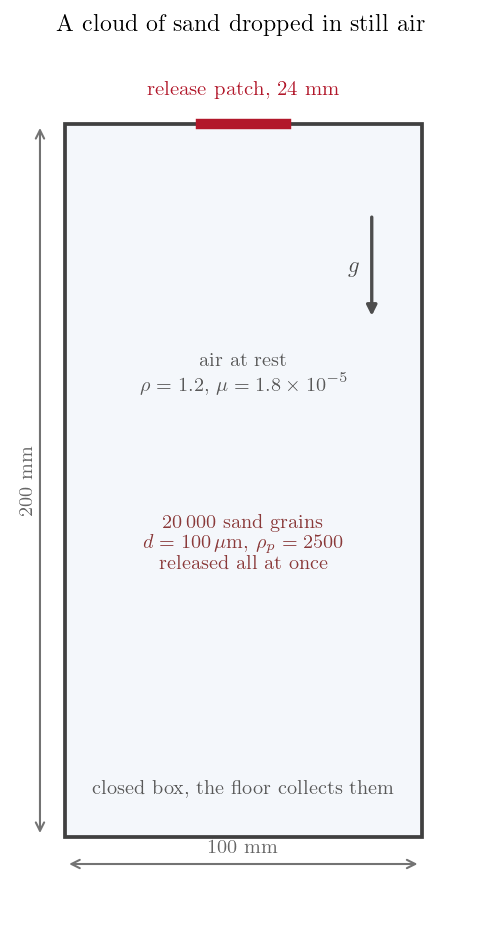
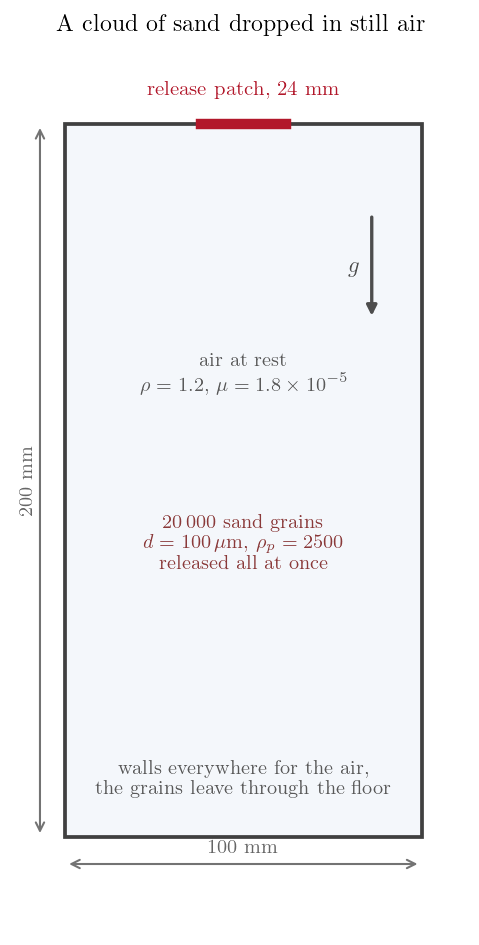
fix: describe the actual particle boundary at the floor in Lag_Twoway_Sand
Both cases give the floor the particle condition `outlet`, so the grains cross
the box and leave the computation. The README said the opposite in three
places: the boundary table announced a deposit with the grains staying where
they land, the figure and its caption had the floor collecting them, and the
text claimed no boundary lets a grain through.

The argument the tutorial rests on is unaffected, since it concerns the air:
every boundary is a wall for the fluid, so nothing but the grains can set it
in motion. Only the particle side of the description was wrong, and the
setup figure is regenerated with the corrected annotation.

Changed region(s): [[0.2046, 0.7979, 0.8184, 0.8593]]

diff --git a/70_lagrangian/Lag_Twoway_Sand/README.md b/70_lagrangian/Lag_Twoway_Sand/README.md
@@ -10,12 +10,13 @@ mass approaches the mass of fluid around them, because it then changes the very
 flow that carries them.
 
 This case is built to make the difference plain. Sand grains are released from a
-patch at the top of a closed box of still air, and the case is run twice, changing
-only the coupling. Nothing else could set the air in motion: no inlet, no outlet,
-no moving wall. So in one-way coupling the air stays exactly at rest, whatever the
-sand does above it. In two-way coupling the drag reaction drives a downward plume,
-and the grains, now falling through descending air, reach the floor faster than
-they would in still air.
+patch at the top of a box of still air, and the case is run twice, changing only
+the coupling. Nothing else could set the air in motion: the box is walled on every
+side, with no inlet, no outlet and no moving wall for the fluid. So in one-way
+coupling the air stays exactly at rest, whatever the sand does above it. In
+two-way coupling the drag reaction drives a downward plume, and the grains, now
+falling through descending air, reach the floor faster than they would in still
+air.
 
 The case is an illustration of the two options and of what changes between them.
 It is not a validation, and no result here is compared with reference data.
@@ -83,8 +84,8 @@ in still air. It is the same file as in the settling tutorial.
 
 ## Physical model
 
-Air at rest in a closed box, sand grains released from a patch at the top and
-collected by the floor.
+Air at rest in a box closed to the air, sand grains released from a patch at the
+top and leaving through the floor.
 
 | Quantity | Value |
 |---|---:|
@@ -111,22 +112,24 @@ plume. With a hundred times fewer grains the two runs would be indistinguishable
 
 <p align="center">
   <img src="FIGURES/curtain_setup.png"
-       alt="Closed box, release patch at the top, floor collecting the grains."
+       alt="Box walled for the air, release patch at the top, grains leaving at the floor."
        width="420"/>
   <br>
   <em>Figure 1: The grains are released together from the patch, fall under gravity,
-  and are collected by the floor.</em>
+  and leave through the floor.</em>
 </p>
 
 | Boundary | Fluid | Particles |
 |---|---|---|
 | release patch (top, centre) | wall | release |
 | rest of the top, side walls | walls | rebound |
-| floor | wall | deposit, the grains stay where they land |
+| floor | wall | outlet, the grains leave the computation |
 | spanwise planes | symmetry | particle symmetry |
 
-The box is closed for both phases: nothing can drive the air, and no boundary lets
-a grain through. Whatever motion appears has one possible origin.
+Every boundary is a wall for the air, so nothing can drive it and whatever motion
+appears has one possible origin. The grains, on the other hand, leave through the
+floor once they have crossed the box: they stop feeding momentum to the air at that
+point, and the flow they created outlives them.
 
 ## Numerical setup
 
@@ -137,7 +140,7 @@ a grain through. Whatever motion appears has one possible origin.
 | Time step | $2\times10^{-4}$ s, constant |
 | Iterations | $3000$ |
 
-The run is long enough for the grains to cross the box and land.
+The run is long enough for every grain to cross the box and leave.
 
 ## Running the simulation
 
@@ -173,7 +176,7 @@ noticeably faster than they did alone, because they are riding the plume they
 created. The sheet shows it too: it bows downwards at its centre, where the plume
 is strongest, instead of staying flat.
 
-The air also keeps turning over the box after the last grains have landed. Momentum
+The air also keeps turning over the box after the last grain has left. Momentum
 handed to the air stays there until viscosity and the walls take it back, which is
 something a one-way computation cannot represent at all.
 
